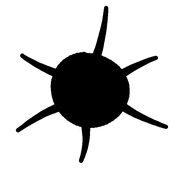
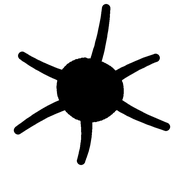
Veröffentlicht 2026-11-18 18:11

Changed region(s): [[0.0556, 0.0, 0.9444, 0.9167], [0.6667, 0.4167, 0.7222, 0.5833]]

diff --git a/index.html b/index.html
@@ -476,7 +476,7 @@ html.nacht body { background: #000; }
      Beim Wechsel füllt sich der Kreis (er bleibt so groß), dann wachsen die Strahlen nacheinander heraus (und zurück). */
   var hatPr = reihe.some(function (k) { return WELT[k] === 'pr'; });
   var weltKnopf = el('button', 'etc-welt-knopf'); weltKnopf.type = 'button';
-  var ZEICHEN = {"m":96,"strich":7,"basis":4.6,"spitze":2.2,"kreisEt":[78.2,62.5,81.5,61.4,84.9,60.5,88.3,60.1,91.8,59.9,95.1,60.0,98.5,60.4,101.7,61.0,104.9,61.9,108.0,62.9,111.0,64.2,114.0,65.6,116.9,67.2,119.6,69.1,122.3,71.2,124.8,73.5,127.1,76.0,129.2,78.8,131.0,81.8,132.5,85.0,133.6,88.4,134.4,91.9,134.7,95.5,134.7,99.1,134.3,102.7,133.4,106.2,132.2,109.6,130.7,112.8,128.8,115.9,126.6,118.7,124.3,121.3,121.7,123.7,118.9,125.8,115.9,127.7,112.8,129.3,109.6,130.6,106.4,131.7,103.0,132.5,99.6,133.0,96.1,133.1,92.7,133.0,89.3,132.5,85.9,131.7,82.6,130.6,79.5,129.1,76.5,127.4,73.7,125.5,71.1,123.2,68.7,120.8,66.5,118.2,64.5,115.4,62.7,112.4,61.2,109.3,60.0,106.0,59.0,102.7,58.3,99.3,57.8,95.7,57.7,92.2,58.0,88.6,58.5,85.0,59.5,81.5,60.8,78.0,62.5,74.8,64.6,71.7,67.0,68.9,69.7,66.4,72.7,64.3,75.9,62.5,79.2,61.0,82.7,60.0,86.2,59.3,89.7,58.9],"kreisEtc":[78.2,62.5,81.5,61.4,84.9,60.5,88.3,60.1,91.8,59.9,95.1,60.0,98.5,60.4,101.7,61.0,104.9,61.9,108.0,62.9,111.0,64.2,114.0,65.6,116.9,67.2,119.6,69.1,122.3,71.2,124.8,73.5,127.1,76.0,129.2,78.8,131.0,81.8,132.5,85.0,133.6,88.4,134.4,91.9,134.7,95.5,134.7,99.1,134.3,102.7,133.4,106.2,132.2,109.6,130.7,112.8,128.8,115.9,126.6,118.7,124.3,121.3,121.7,123.7,118.9,125.8,115.9,127.7,112.8,129.3,109.6,130.6,106.4,131.7,103.0,132.5,99.6,133.0,96.1,133.1,92.7,133.0,89.3,132.5,85.9,131.7,82.6,130.6,79.5,129.1,76.5,127.4,73.7,125.5,71.1,123.2,68.7,120.8,66.5,118.2,64.5,115.4,62.7,112.4,61.2,109.3,60.0,106.0,59.0,102.7,58.3,99.3,57.8,95.7,57.7,92.2,58.0,88.6,58.5,85.0,59.5,81.5,60.8,78.0,62.5,74.8,64.6,71.7,67.0,68.9,69.7,66.4,72.7,64.3,75.9,62.5,79.2,61.0,82.7,60.0,86.2,59.3,89.7,58.9],"strahlen":[[103.4,58.7,104.4,55.5,105.4,52.2,106.3,48.9,107.1,45.6,107.9,42.3,108.7,39.0,109.4,35.6,110.1,32.3,110.7,29.0,111.3,25.6,111.8,22.3,112.3,18.9,112.7,15.5,113.0,12.1,113.3,8.7],[130.1,79.2,132.3,77.7,134.6,76.3,136.9,74.9,139.2,73.6,141.6,72.4,143.9,71.1,146.3,69.9,148.7,68.8,151.2,67.7,153.6,66.6,156.0,65.5,158.5,64.5,161.0,63.5,163.5,62.6,166.1,61.7],[130.1,112.9,133.0,114.8,135.9,116.7,138.9,118.5,141.9,120.2,144.9,121.9,148.0,123.5,151.2,125.0,154.3,126.4,157.5,127.8,160.7,129.1,163.9,130.4,167.2,131.7,170.4,132.9,173.7,134.1,177.0,135.2],[91.3,133.7,91.5,136.3,91.7,138.9,91.9,141.4,91.9,144.0,91.9,146.5,91.7,149.1,91.5,151.6,91.1,154.1,90.7,156.6,90.2,159.1,89.6,161.6,88.9,164.0,88.2,166.5,87.4,169.0,86.5,171.4],[62.7,114.4,59.6,115.6,56.5,116.9,53.4,118.2,50.4,119.6,47.4,121.1,44.5,122.7,41.6,124.3,38.7,126.0,35.8,127.7,33.0,129.5,30.2,131.3,27.4,133.2,24.7,135.1,21.9,137.0,19.2,139.0],[62.1,78.8,59.4,77.9,56.7,76.8,54.0,75.8,51.4,74.6,48.7,73.5,46.1,72.3,43.6,71.0,41.0,69.7,38.4,68.4,35.9,67.1,33.4,65.6,31.0,64.2,28.5,62.7,26.1,61.1,23.7,59.4]]};
+  var ZEICHEN = {"m":96,"strich":7,"basis":6.2,"spitze":4.4,"kreisEt":[81.1,68.0,83.9,67.0,86.7,66.3,89.6,65.9,92.5,65.7,95.3,65.8,98.1,66.2,100.8,66.7,103.5,67.4,106.1,68.3,108.6,69.3,111.1,70.5,113.5,71.9,115.8,73.4,118.0,75.2,120.1,77.1,122.0,79.3,123.8,81.6,125.3,84.1,126.5,86.8,127.5,89.6,128.1,92.6,128.5,95.6,128.4,98.6,128.0,101.6,127.3,104.5,126.3,107.4,125.0,110.1,123.5,112.6,121.7,115.0,119.7,117.2,117.5,119.2,115.2,121.0,112.7,122.6,110.1,123.9,107.4,125.0,104.7,125.9,101.9,126.6,99.0,127.0,96.1,127.1,93.2,127.0,90.3,126.6,87.5,125.9,84.8,125.0,82.2,123.8,79.7,122.3,77.3,120.7,75.1,118.8,73.1,116.8,71.3,114.6,69.6,112.2,68.1,109.7,66.9,107.1,65.8,104.4,65.0,101.6,64.4,98.7,64.0,95.8,63.9,92.8,64.1,89.8,64.6,86.8,65.4,83.8,66.5,81.0,68.0,78.2,69.7,75.7,71.7,73.3,74.0,71.2,76.5,69.4,79.1,67.9,81.9,66.7,84.8,65.8,87.8,65.2,90.7,64.9],"kreisEtc":[81.1,68.0,83.9,67.0,86.7,66.3,89.6,65.9,92.5,65.7,95.3,65.8,98.1,66.2,100.8,66.7,103.5,67.4,106.1,68.3,108.6,69.3,111.1,70.5,113.5,71.9,115.8,73.4,118.0,75.2,120.1,77.1,122.0,79.3,123.8,81.6,125.3,84.1,126.5,86.8,127.5,89.6,128.1,92.6,128.5,95.6,128.4,98.6,128.0,101.6,127.3,104.5,126.3,107.4,125.0,110.1,123.5,112.6,121.7,115.0,119.7,117.2,117.5,119.2,115.2,121.0,112.7,122.6,110.1,123.9,107.4,125.0,104.7,125.9,101.9,126.6,99.0,127.0,96.1,127.1,93.2,127.0,90.3,126.6,87.5,125.9,84.8,125.0,82.2,123.8,79.7,122.3,77.3,120.7,75.1,118.8,73.1,116.8,71.3,114.6,69.6,112.2,68.1,109.7,66.9,107.1,65.8,104.4,65.0,101.6,64.4,98.7,64.0,95.8,63.9,92.8,64.1,89.8,64.6,86.8,65.4,83.8,66.5,81.0,68.0,78.2,69.7,75.7,71.7,73.3,74.0,71.2,76.5,69.4,79.1,67.9,81.9,66.7,84.8,65.8,87.8,65.2,90.7,64.9],"strahlen":[[102.3,64.6,103.4,61.0,104.4,57.3,105.4,53.6,106.3,49.9,107.2,46.2,108.0,42.5,108.8,38.8,109.5,35.1,110.2,31.3,110.9,27.6,111.5,23.8,112.1,20.1,112.5,16.3,112.9,12.5,113.3,8.7],[124.7,81.8,127.3,80.1,129.9,78.6,132.6,77.0,135.3,75.5,138.0,74.1,140.7,72.7,143.5,71.3,146.2,70.0,149.0,68.7,151.8,67.4,154.6,66.2,157.4,65.0,160.3,63.9,163.2,62.8,166.1,61.7],[124.7,110.2,127.9,112.4,131.2,114.4,134.6,116.4,137.9,118.3,141.3,120.1,144.8,121.9,148.3,123.6,151.8,125.2,155.3,126.7,158.9,128.2,162.5,129.7,166.1,131.1,169.7,132.5,173.3,133.9,177.0,135.2],[92.0,127.7,92.2,130.7,92.4,133.7,92.4,136.7,92.4,139.6,92.3,142.6,92.2,145.5,91.9,148.4,91.5,151.3,91.0,154.2,90.4,157.1,89.8,160.0,89.1,162.9,88.3,165.7,87.4,168.6,86.5,171.4],[68.0,111.5,64.5,112.9,61.0,114.3,57.6,115.9,54.3,117.5,50.9,119.2,47.6,120.9,44.4,122.7,41.1,124.6,37.9,126.6,34.8,128.5,31.6,130.6,28.5,132.6,25.4,134.7,22.3,136.8,19.2,139.0],[67.4,81.5,64.4,80.4,61.3,79.2,58.3,77.9,55.3,76.6,52.3,75.3,49.4,73.9,46.4,72.5,43.5,71.0,40.6,69.5,37.7,68.0,34.9,66.4,32.0,64.7,29.2,63.0,26.5,61.3,23.7,59.4]]};
   weltKnopf.innerHTML = '<svg viewBox="0 0 192 192" aria-hidden="true"><path class="etc-z-fuell" fill="currentColor" stroke="none"/>'
     + '<path class="etc-z-strich" fill="none" stroke="currentColor" stroke-width="7" stroke-linecap="round" stroke-linejoin="round"/></svg>';
   var zeichenPfad = weltKnopf.querySelector('.etc-z-strich'), zeichenFuell = weltKnopf.querySelector('.etc-z-fuell'), zeichenT = 0, zeichenLauf = null;
